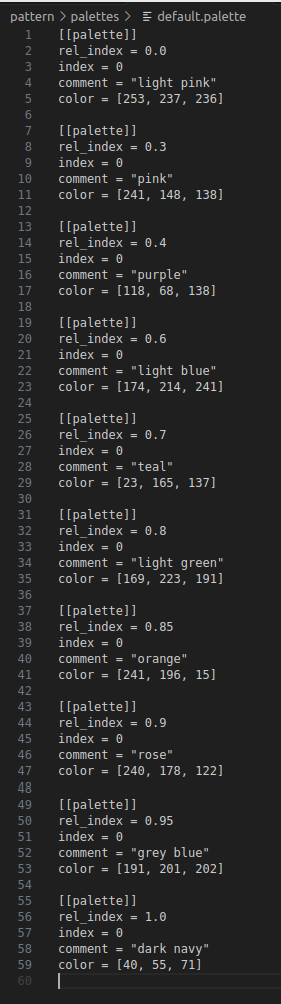
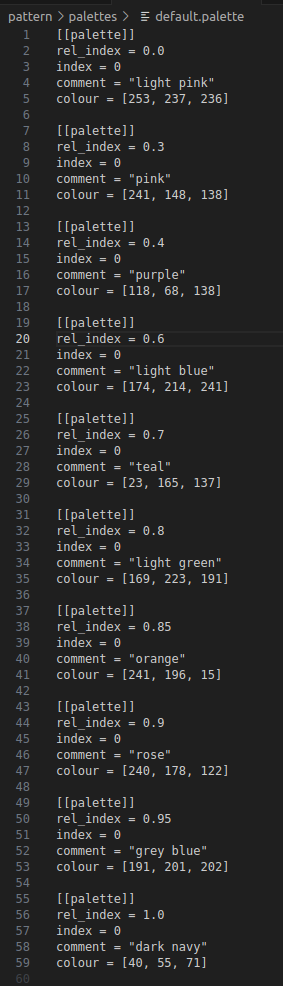
Fixed active palette as was not loading.

diff --git a/static/help.html b/static/help.html
@@ -244,11 +244,21 @@
                   <li><i><b>index</b></i> - Internal use.</li>
                   <li><i><b>comment</b></i> - Comment field, can be used for boundary colour name.</li>
                   <li><i><b>colour</b></i> - The colour in rgb format at the colour band boundary.</li>
-               </ul><br>
+               </ul>
             </p>
    
             <p class="images">
                <img src="/static/help-pics/default_palette.png" alt="Default colour palette."></p>
+
+            <p>Let's use the following fractal image rendered in the default colour palette
+               as an example.<br>
+               From the edges of the image we see that the colours go from pink to
+               purple to light blue and through to light green, orange, finally to navy blue.
+               If we look at the palette file above we see the same colour bands
+               going from 1 to maximum number of iterations.</p>
+
+            <p class="images">
+               <img src="/static/help-pics/original_render.png" alt="Example render."></p>
    
    
          <a id="About"></a>

diff --git a/src/main.rs b/src/main.rs
@@ -372,6 +372,10 @@ async fn palette(mut payload: Multipart, fractal: web::Data<Arc<Mutex<Fractal>>>
                         }
                     }
             
+                    // Update the fractal instance with the new active palette file.
+                    fractal.active_palette_file = filepath.clone();
+
+                    // Filename only of palette for front end.
                     active_palette_file = Some(filename.to_string());
                 }
             }
@@ -379,8 +383,6 @@ async fn palette(mut payload: Multipart, fractal: web::Data<Arc<Mutex<Fractal>>>
     }
   
     if let Some(palette_file) = active_palette_file {
-        // Update the fractal instance with the new active palette file.
-        fractal.active_palette_file = palette_file.clone();
 
         // Construct payload for UI.
         let response_data = json!({
@@ -430,6 +432,9 @@ async fn render(fractal: web::Data<Arc<Mutex<Fractal>>>,) -> impl Responder {
     params.centre_im = fractal.mid_pt.im;
     params.pt_div = fractal.pt_div;
     params.max_its = fractal.max_its;
+
+    // Initialise the colour palette as it may have changed.
+    let _ = fractal.init_col_pallete();
 
     // Re-render the fractal image.
     fractal.render_image();

diff --git a/src/fractals.rs b/src/fractals.rs
@@ -153,7 +153,7 @@ impl Fractal {
             let (lower_rel_index, _lower_bound, _lower_comment, _lower_colour) = &self.col_palette[col_bound];
             self.col_palette[col_bound].1 = (lower_rel_index * self.max_its as f32) as u32;
         }
-        
+
         Ok(())
     }
 
@@ -292,6 +292,9 @@ impl Fractal {
     // currently active colour palette.
     pub fn render_image(&mut self) {
         info!("Rendering image according to colour palette.");
+
+        // Prepare the currently active colour palette.
+        let _ = self.init_col_pallete();
 
         // We need to remove the path from the filename,
         // as we are not interested in the original path.
